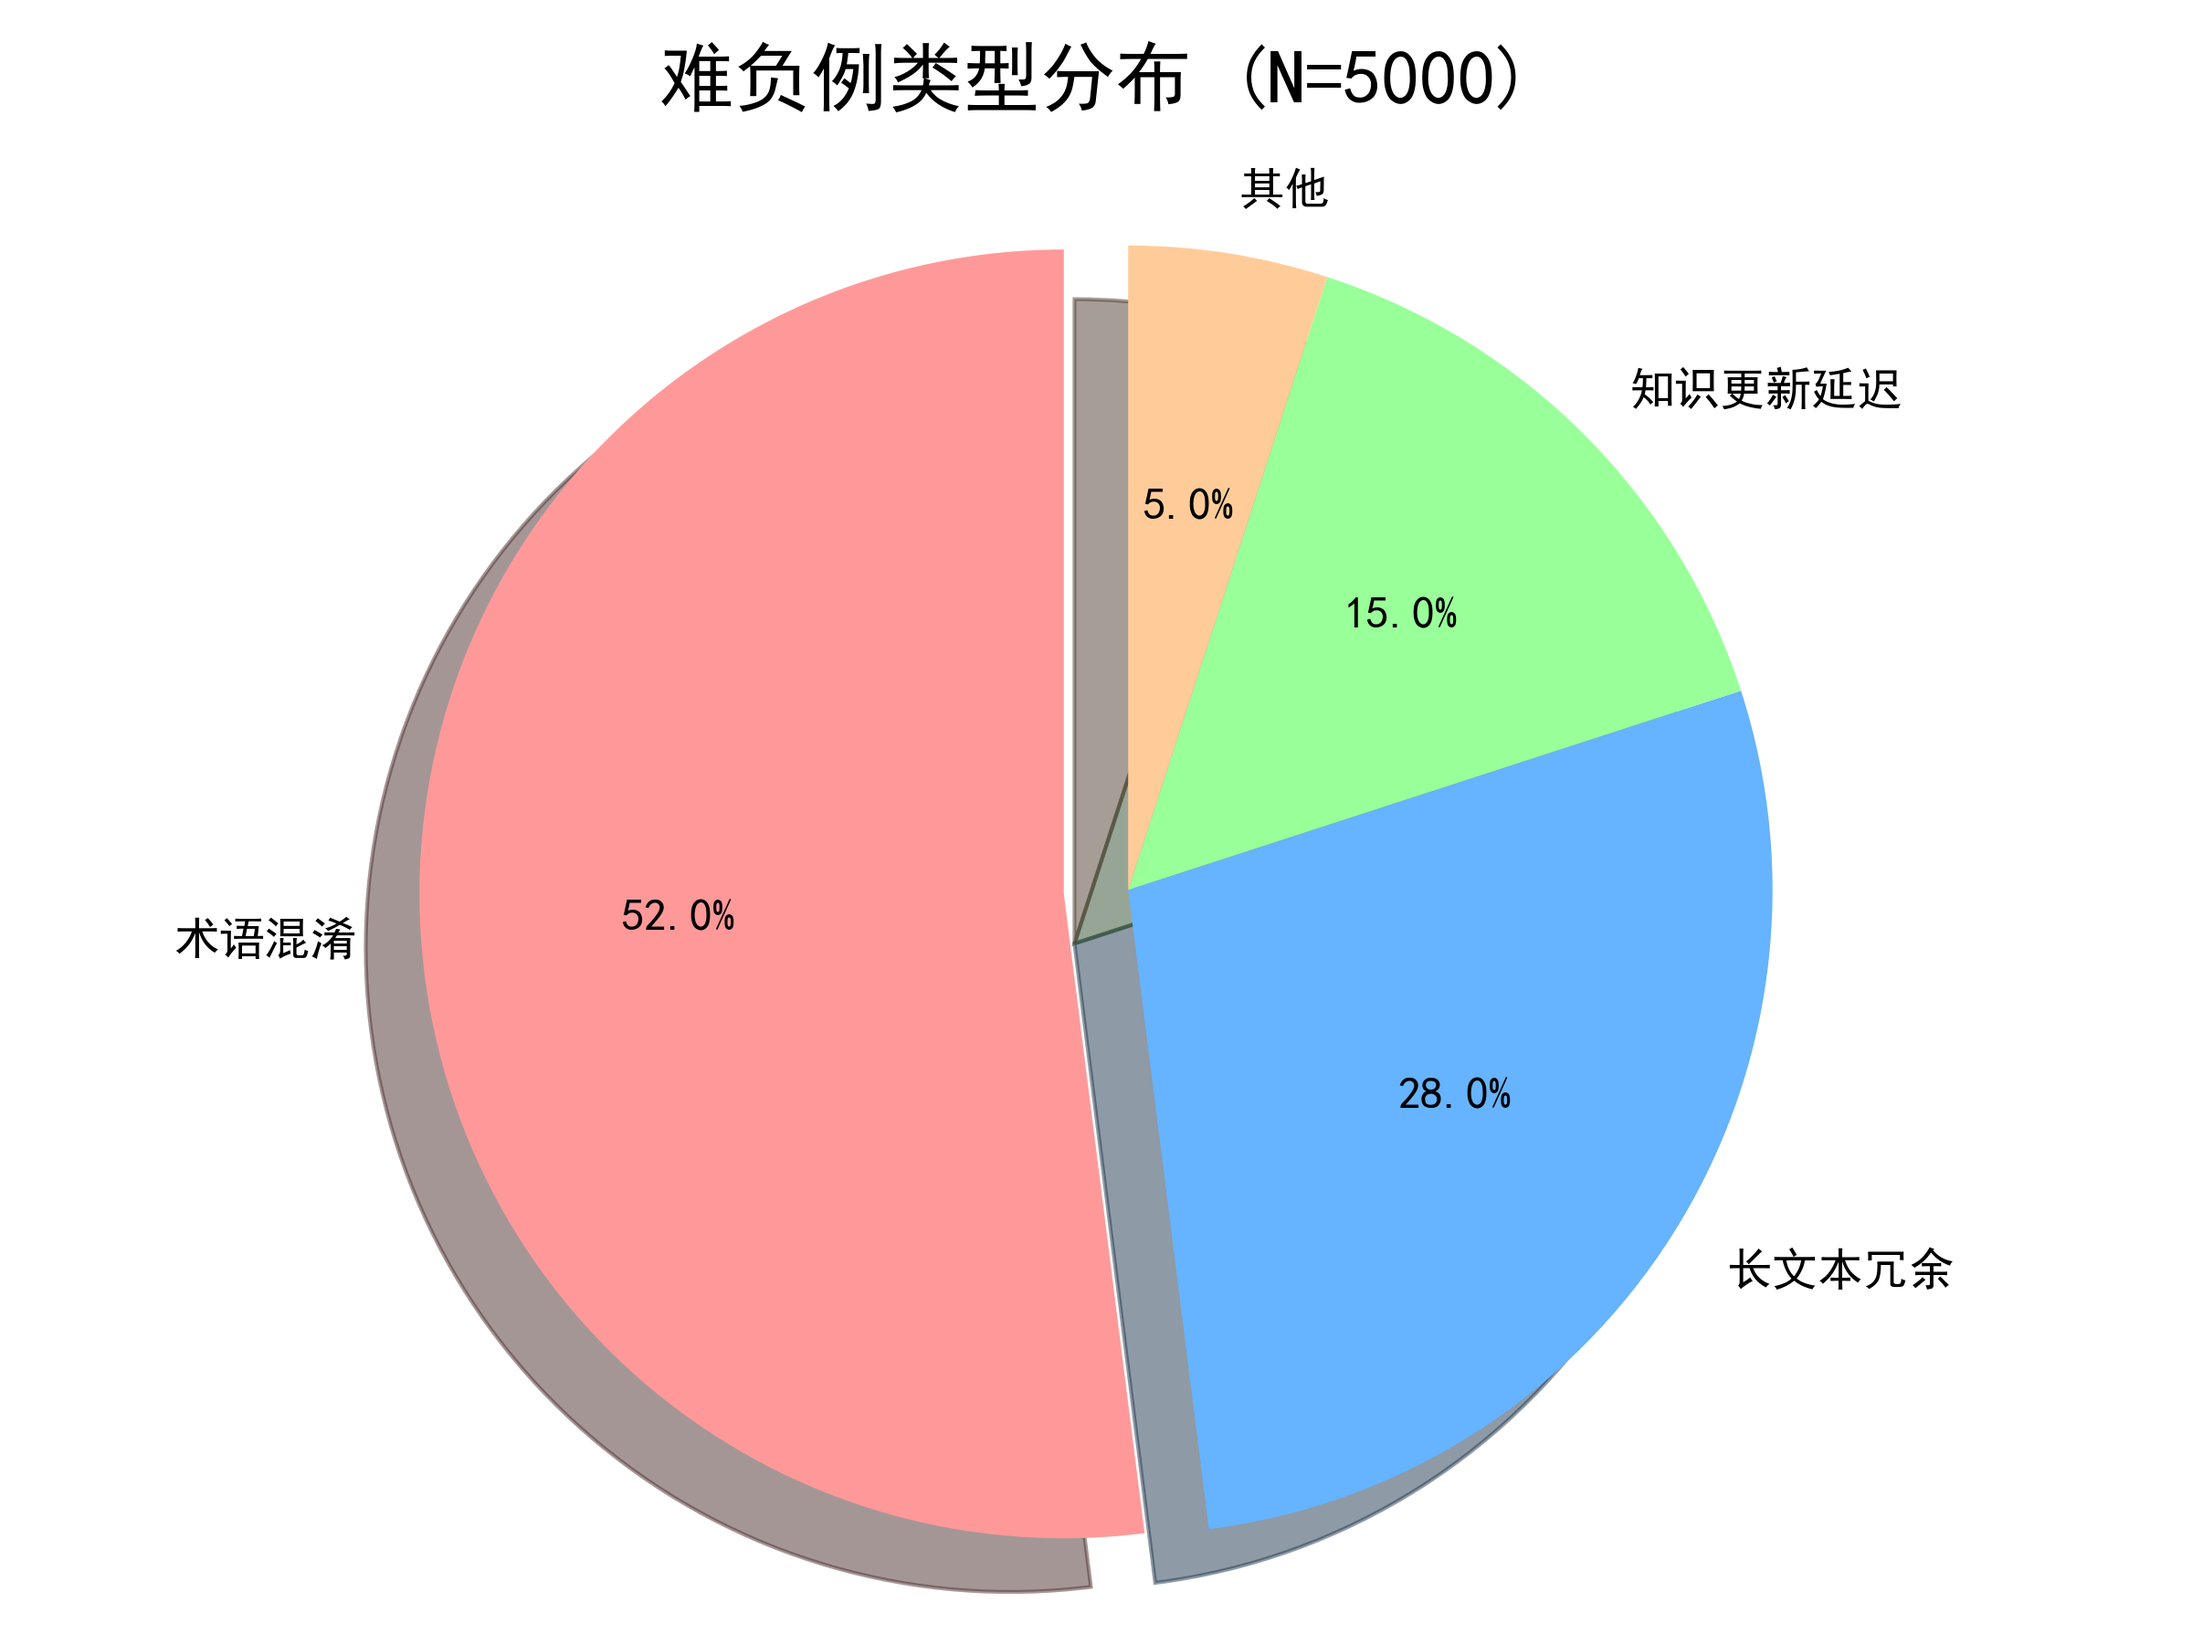
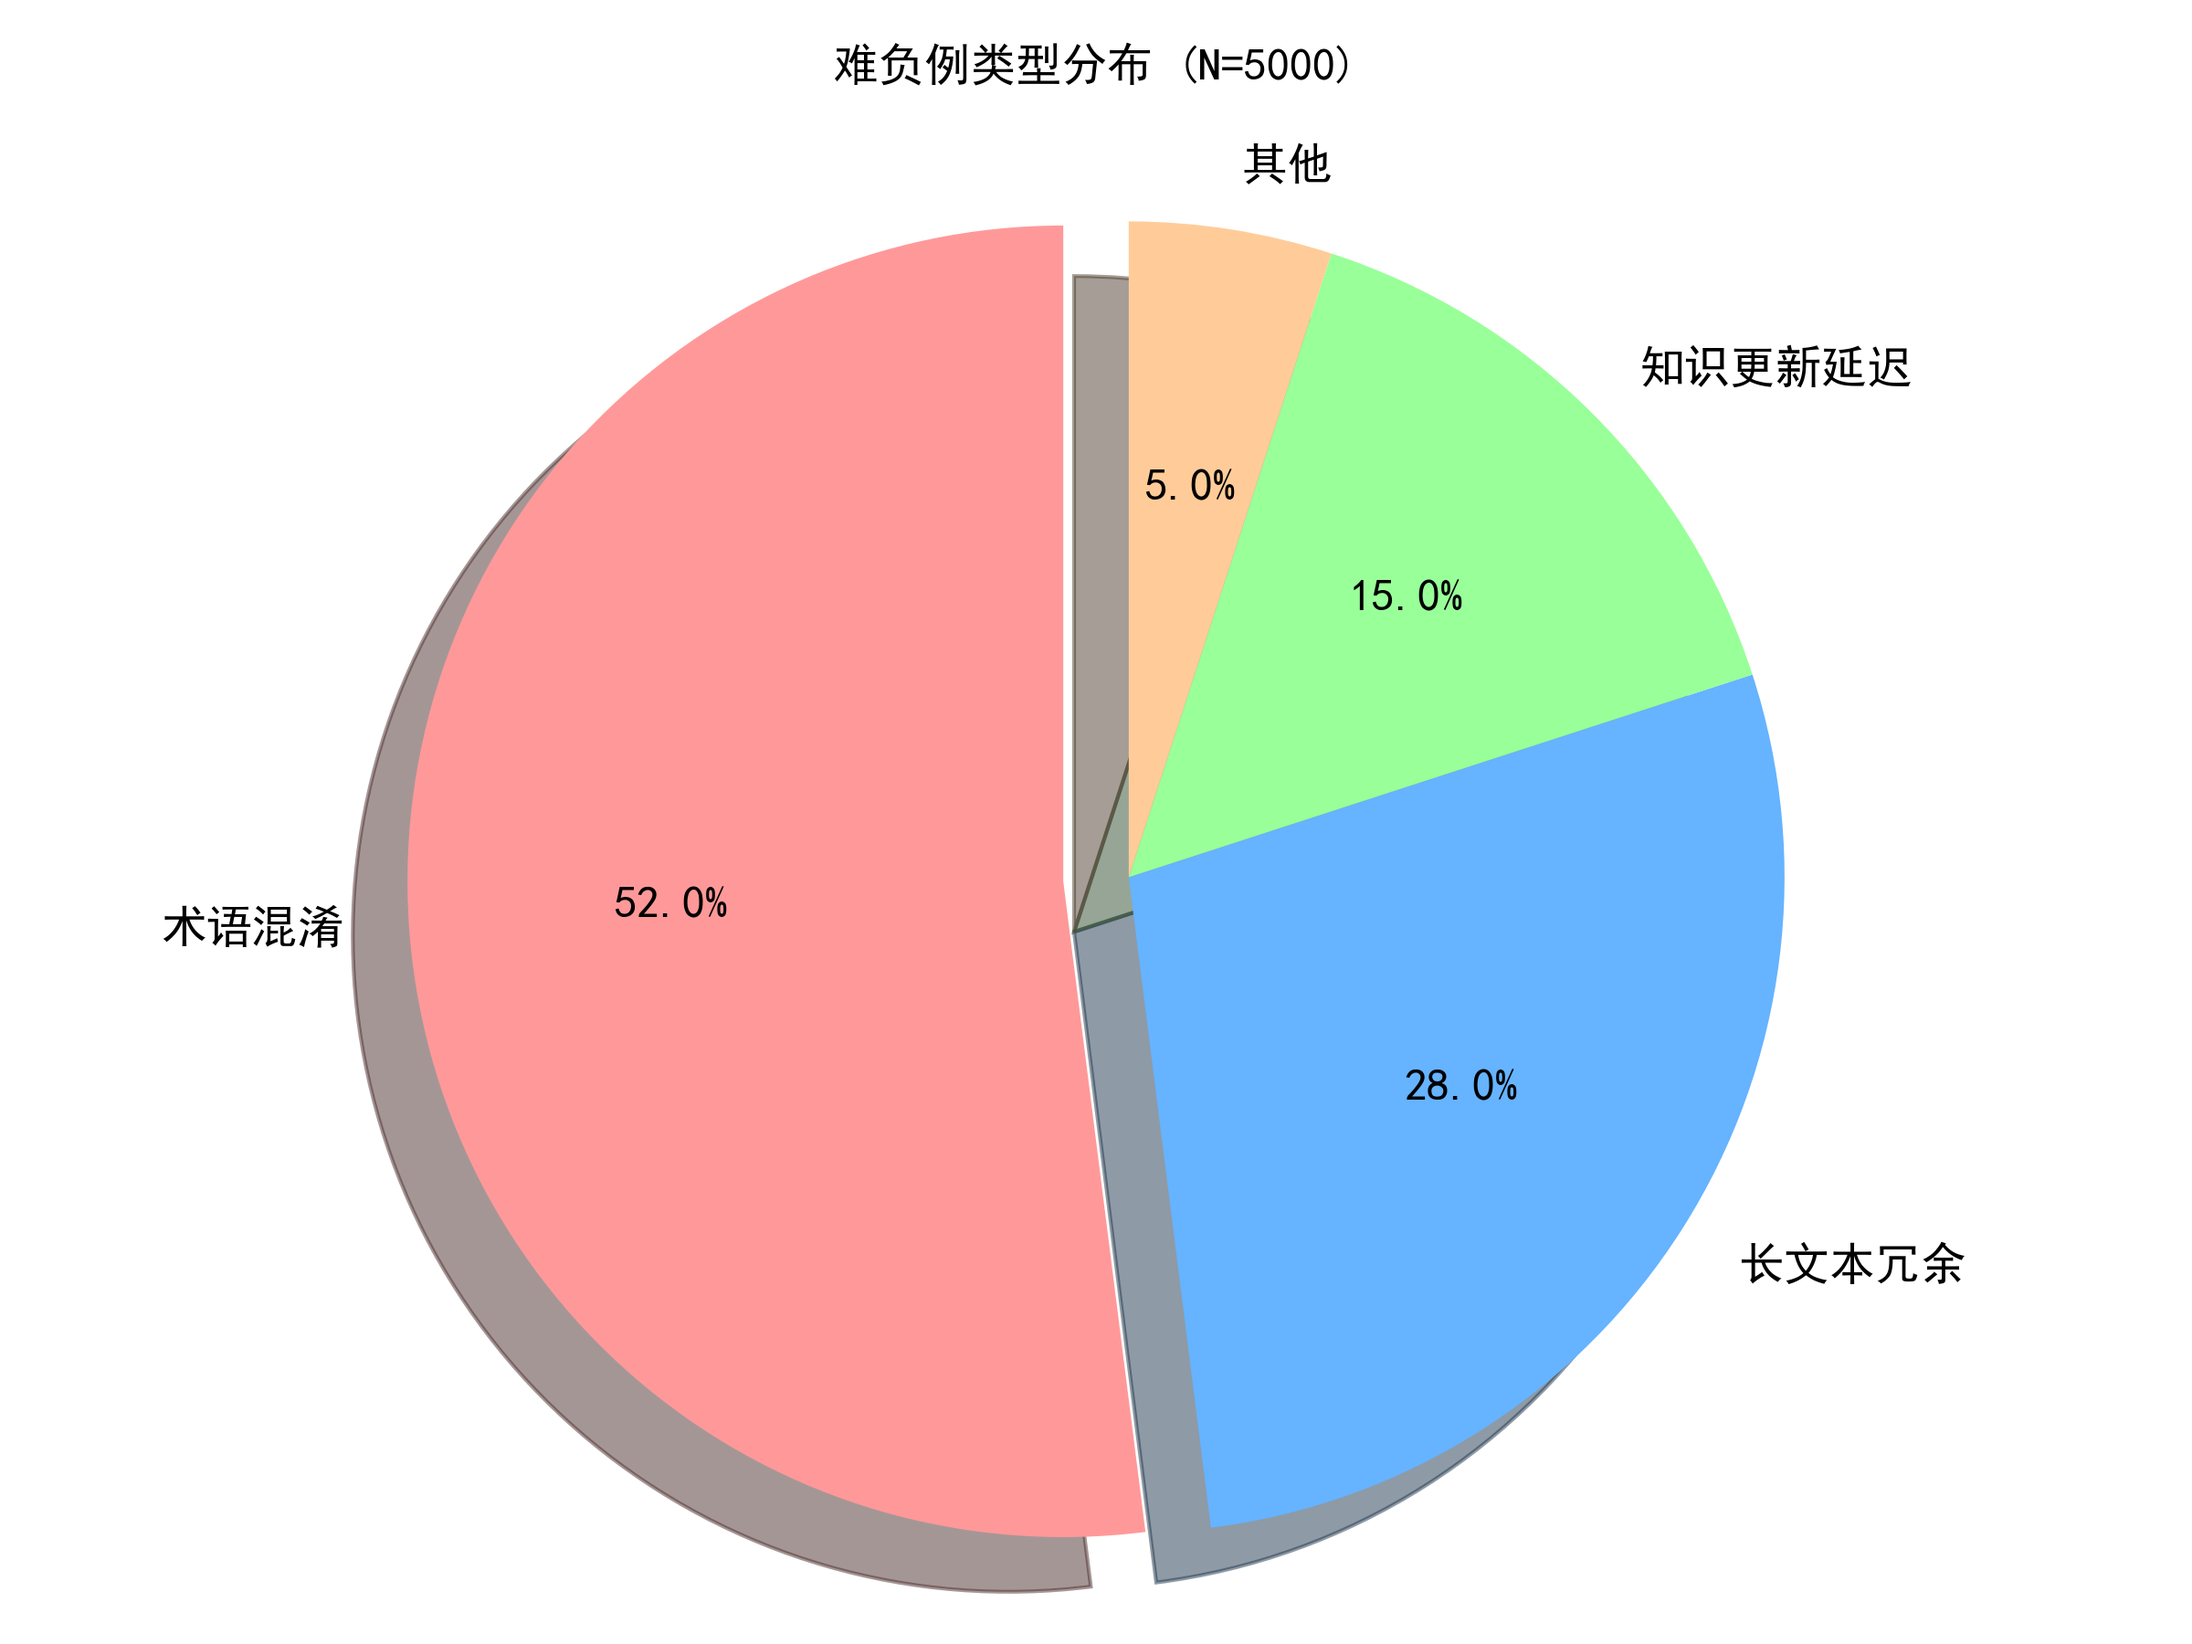
修改数据可视化脚本

diff --git a/generatePicture/dataPie.py b/generatePicture/dataPie.py
@@ -23,7 +23,7 @@ plt.pie(error_ratio,
         shadow=True,
         textprops={'fontsize':12})
 
-plt.title('难负例类型分布 (N=5000)', fontsize=20, pad=20)
+plt.title('难负例类型分布 (N=5000)', fontsize=12, pad=20)
 plt.axis('equal')  # 保证饼图为正圆形
 plt.tight_layout()
 plt.savefig('error_type_pie.png', dpi=300)
